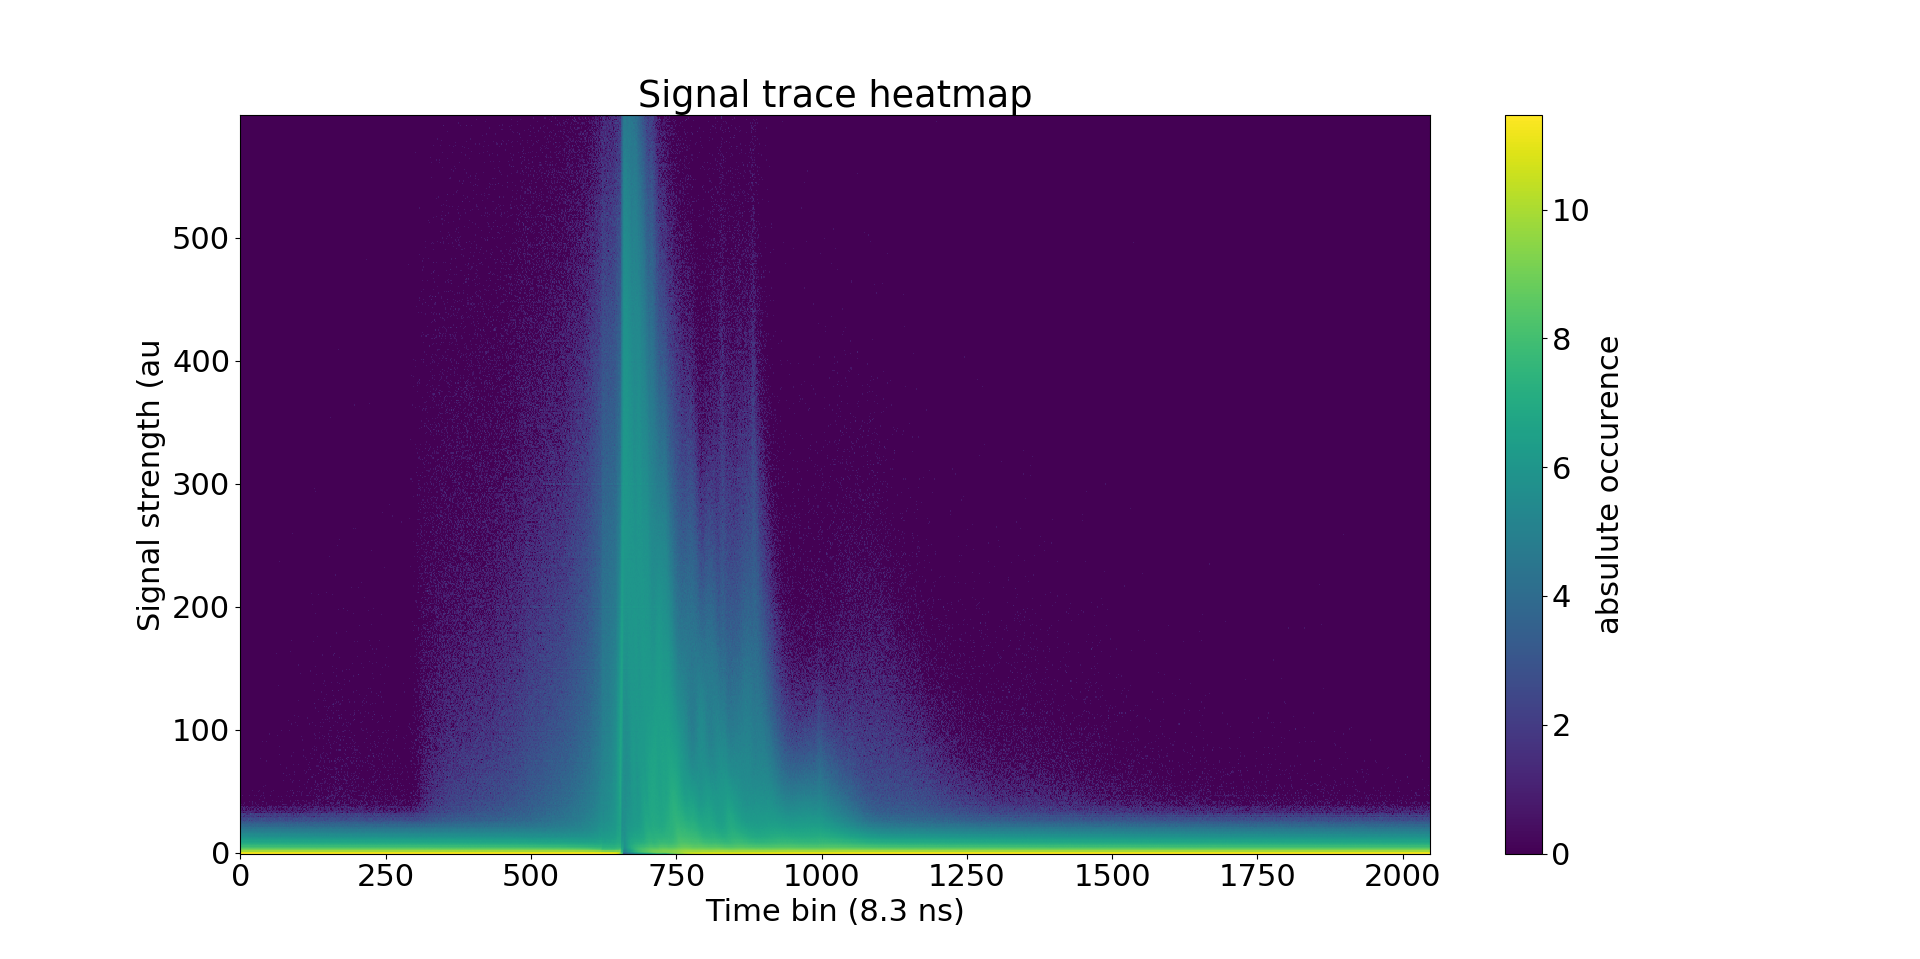
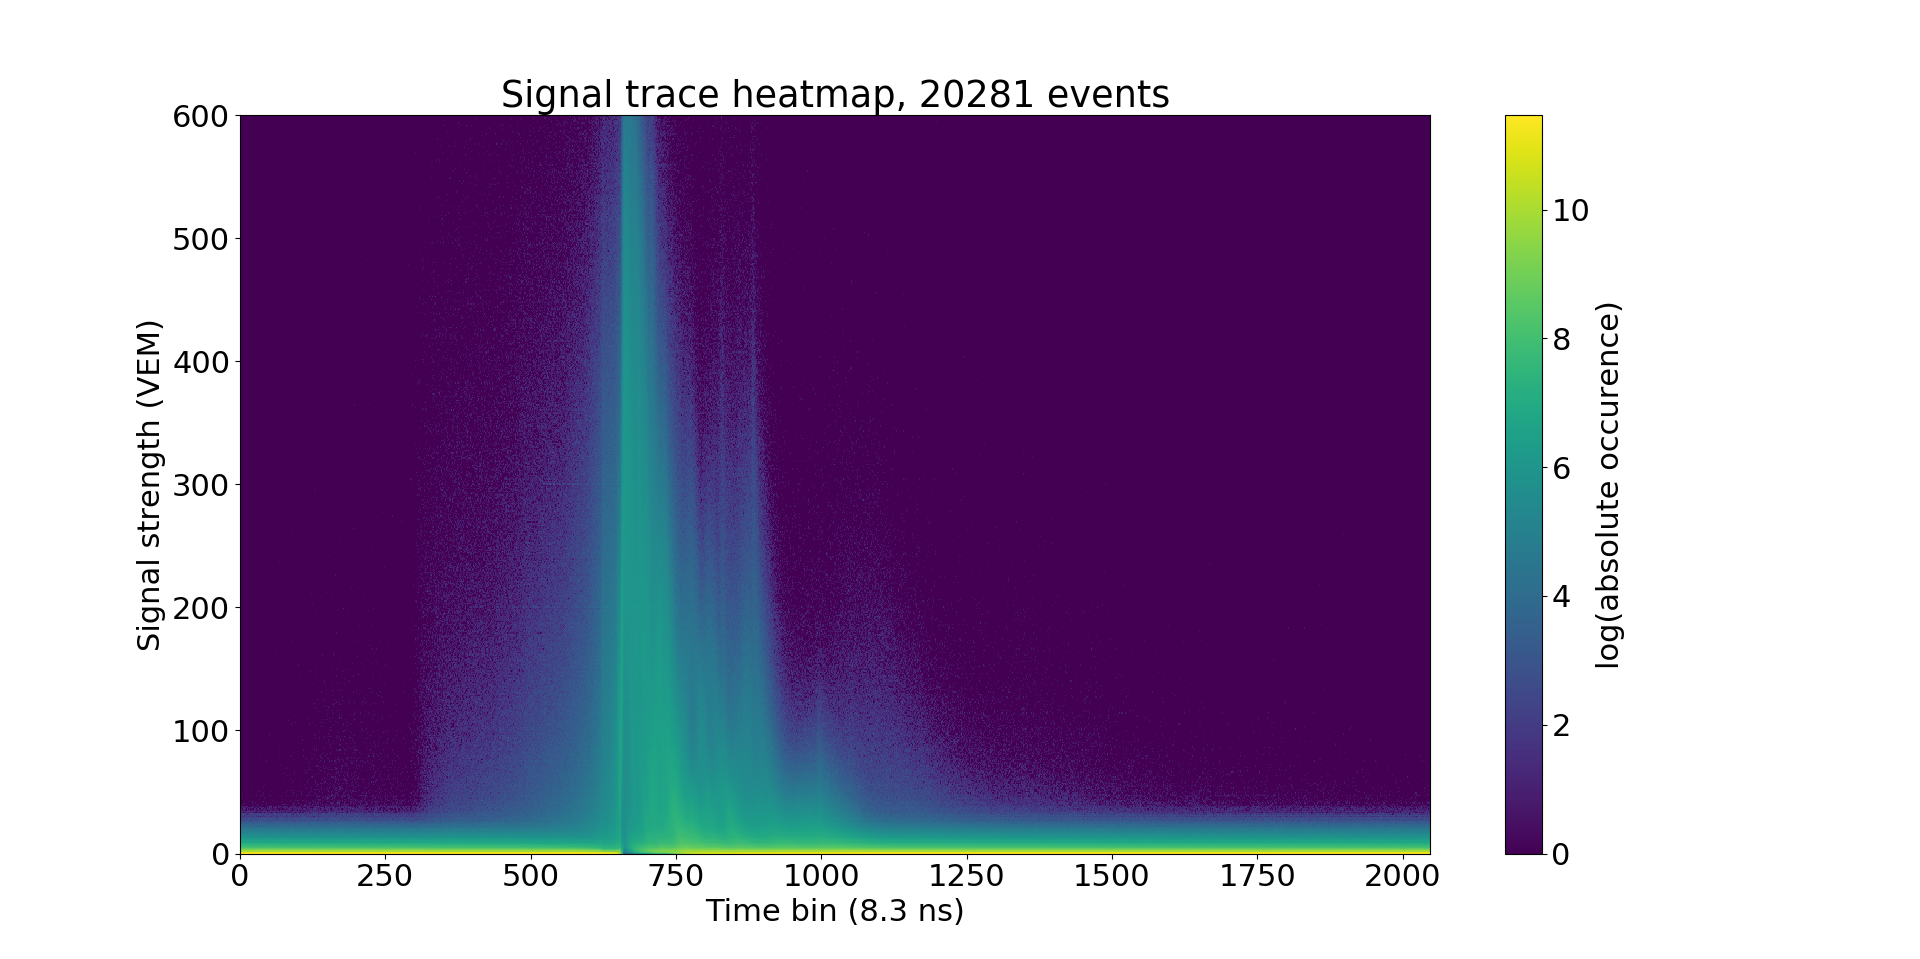
Update trace heatmaps

diff --git a/scripts/ExtractTraceCharacteristics/view_trace_heatmap.py b/scripts/ExtractTraceCharacteristics/view_trace_heatmap.py
@@ -5,8 +5,8 @@ import matplotlib.pyplot as plt
 plt.rcParams.update({'font.size': 22})
 
 
-background = np.loadtxt("/cr/users/filip/data/accumulated_background.csv")
-signal = np.loadtxt("/cr/users/filip/data/accumulated_signal.csv")
+background = np.loadtxt("/cr/users/filip/data/first_simulation/heatmap/accumulated_background.csv")
+signal = np.loadtxt("/cr/users/filip/data/first_simulation/heatmap/accumulated_signal.csv")
 
 background = np.log(background)
 background[background == -np.inf] = 0
@@ -16,18 +16,18 @@ signal[signal == -np.inf] = 0
 
 # heatmap for background
 plt.figure()
-plt.title("Background trace heatmap")
-background_heatmap = plt.imshow(background, aspect = 'auto', origin = 'lower')
-plt.colorbar(background_heatmap, label="absolute occurence")
-plt.ylabel("Signal strength (au)")
+plt.title("Background trace heatmap, 20281 events")
+background_heatmap = plt.imshow(background, aspect = 'auto', origin = 'lower', extent = [0, 2048, 0, 22])
+plt.colorbar(background_heatmap, label="log(absolute occurence)")
+plt.ylabel("Signal strength (VEM)")
 plt.xlabel("Time bin (8.3 ns)")
  
 # heatmap for signal
 plt.figure()
-plt.title("Signal trace heatmap")
-signal_heatmap = plt.imshow(signal, aspect = 'auto', origin = 'lower')
-plt.colorbar(signal_heatmap, label="absulute occurence")
-plt.ylabel("Signal strength (au")
+plt.title("Signal trace heatmap, 20281 events")
+signal_heatmap = plt.imshow(signal, aspect = 'auto', origin = 'lower', extent = [0, 2048, 0, 600])
+plt.colorbar(signal_heatmap, label="log(absolute occurence)")
+plt.ylabel("Signal strength (VEM)")
 plt.xlabel("Time bin (8.3 ns)")
 
 plt.show()
